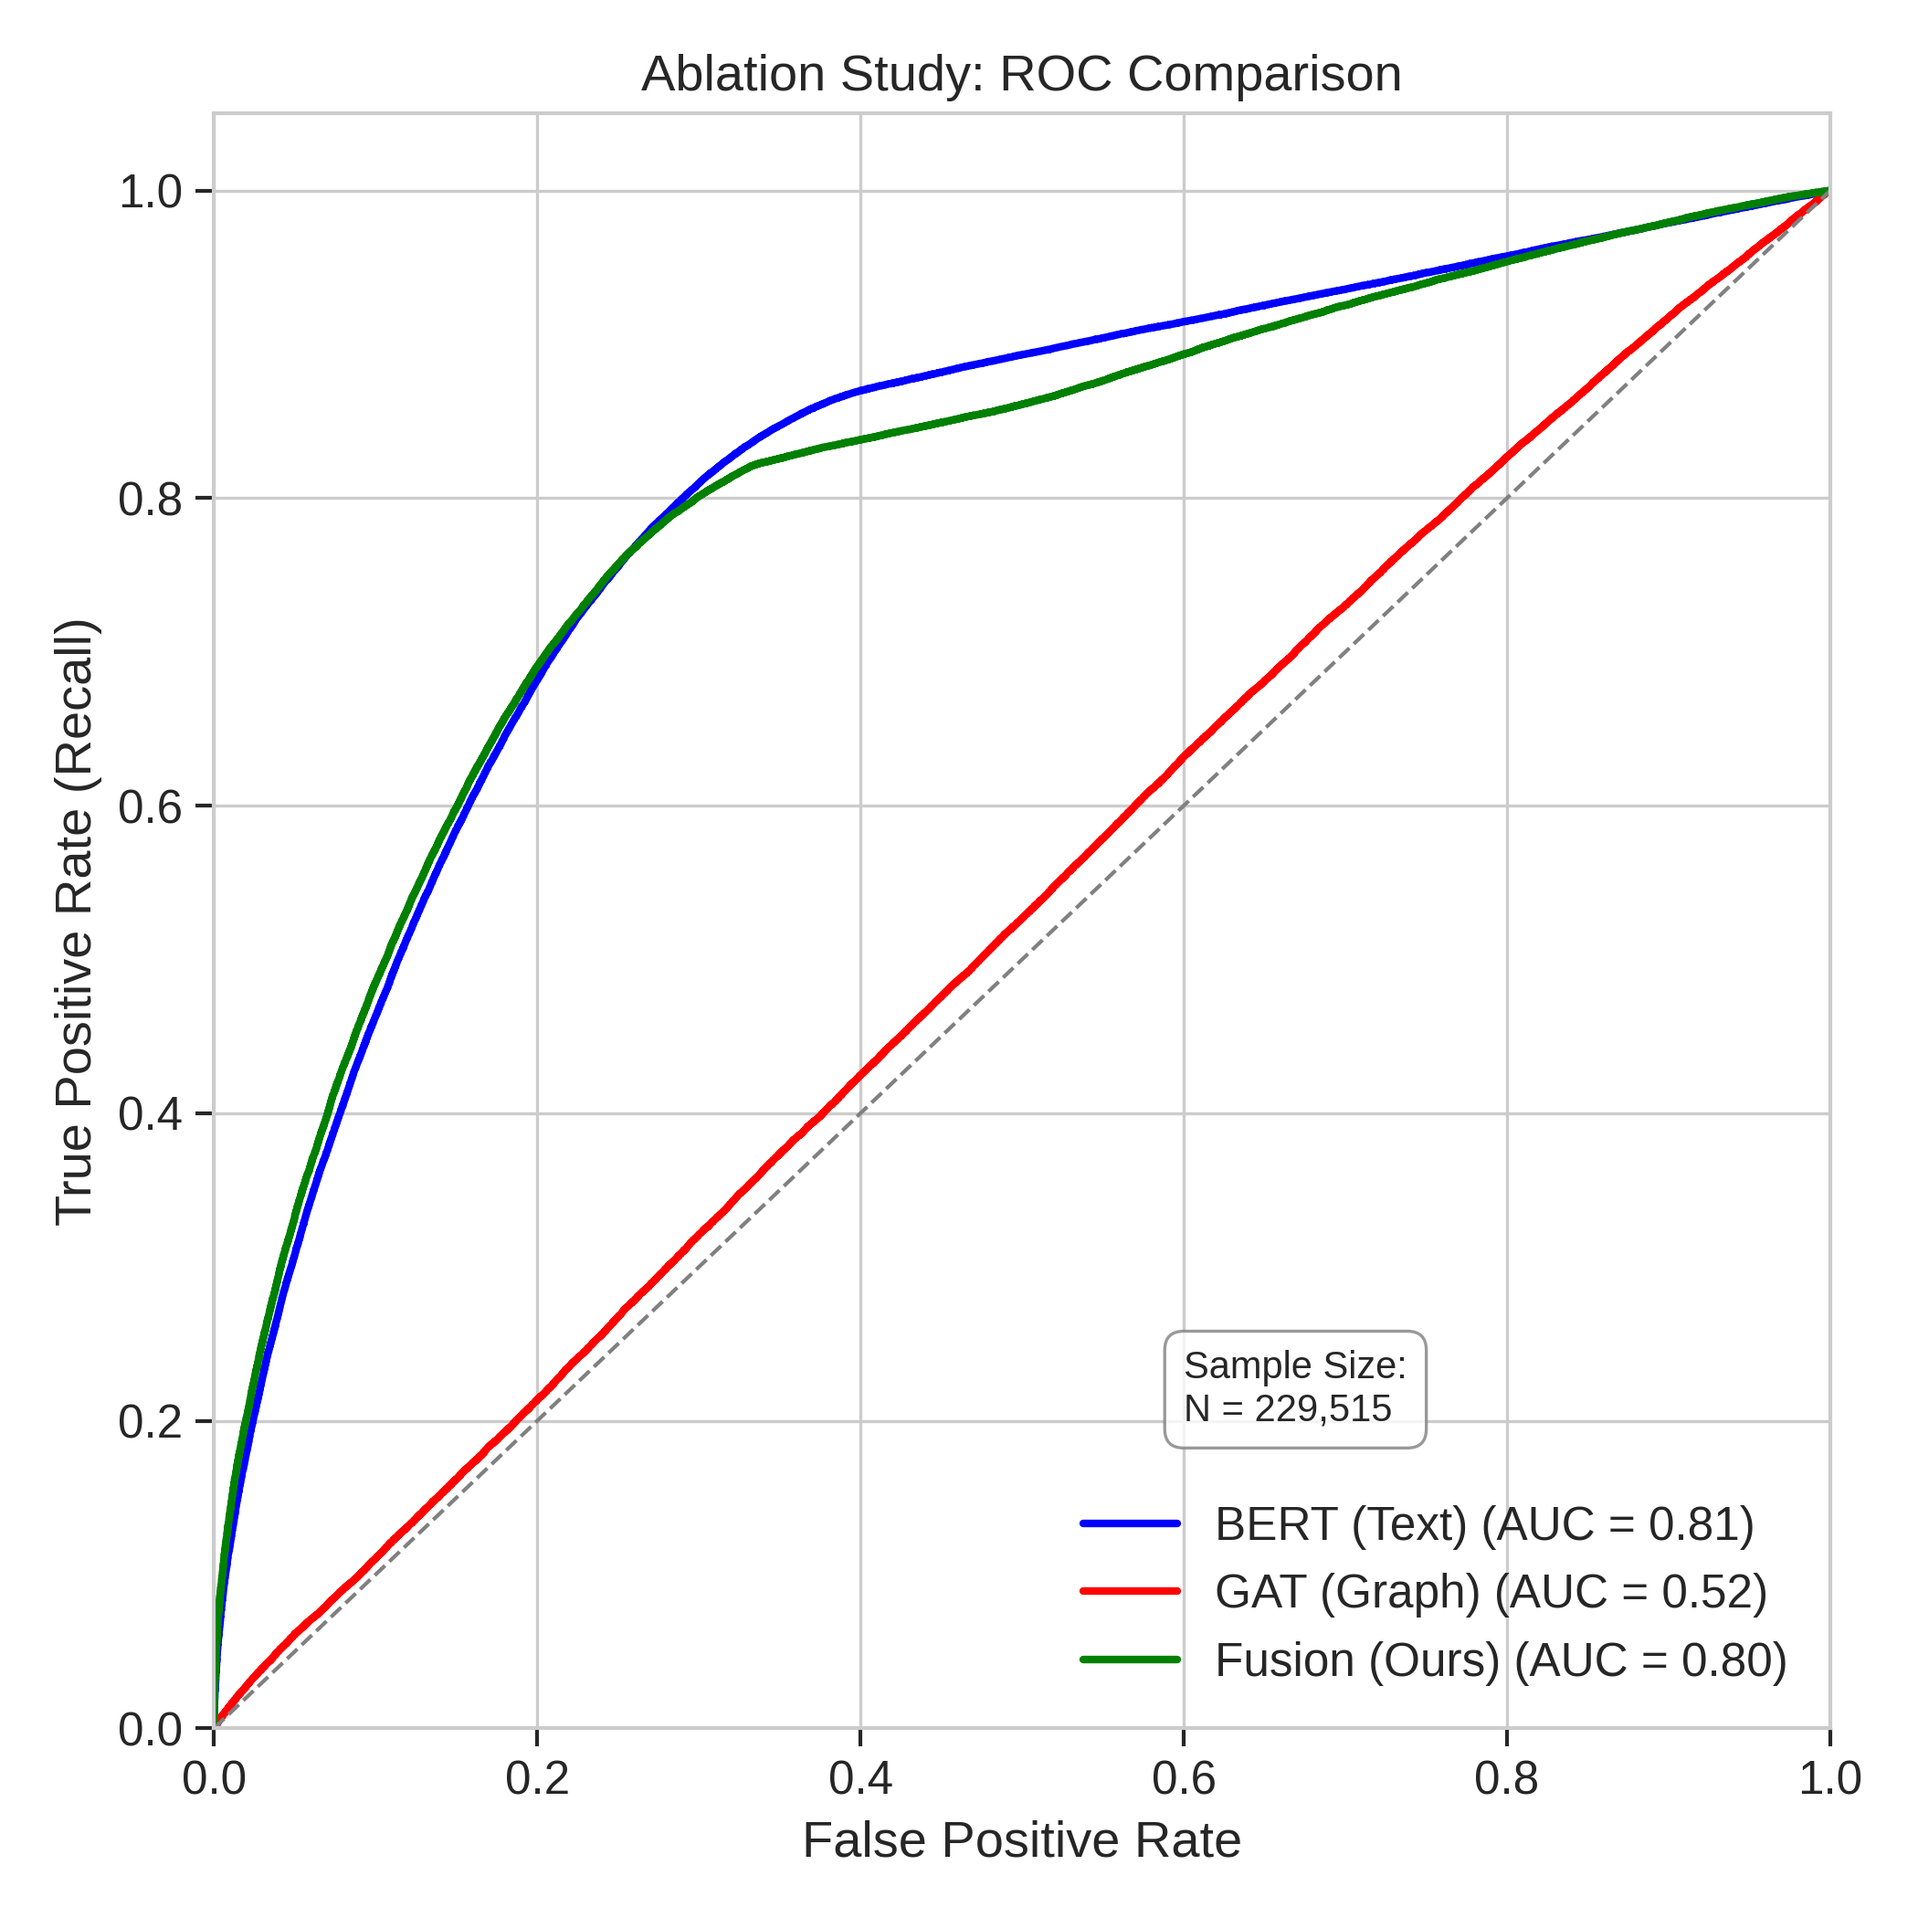
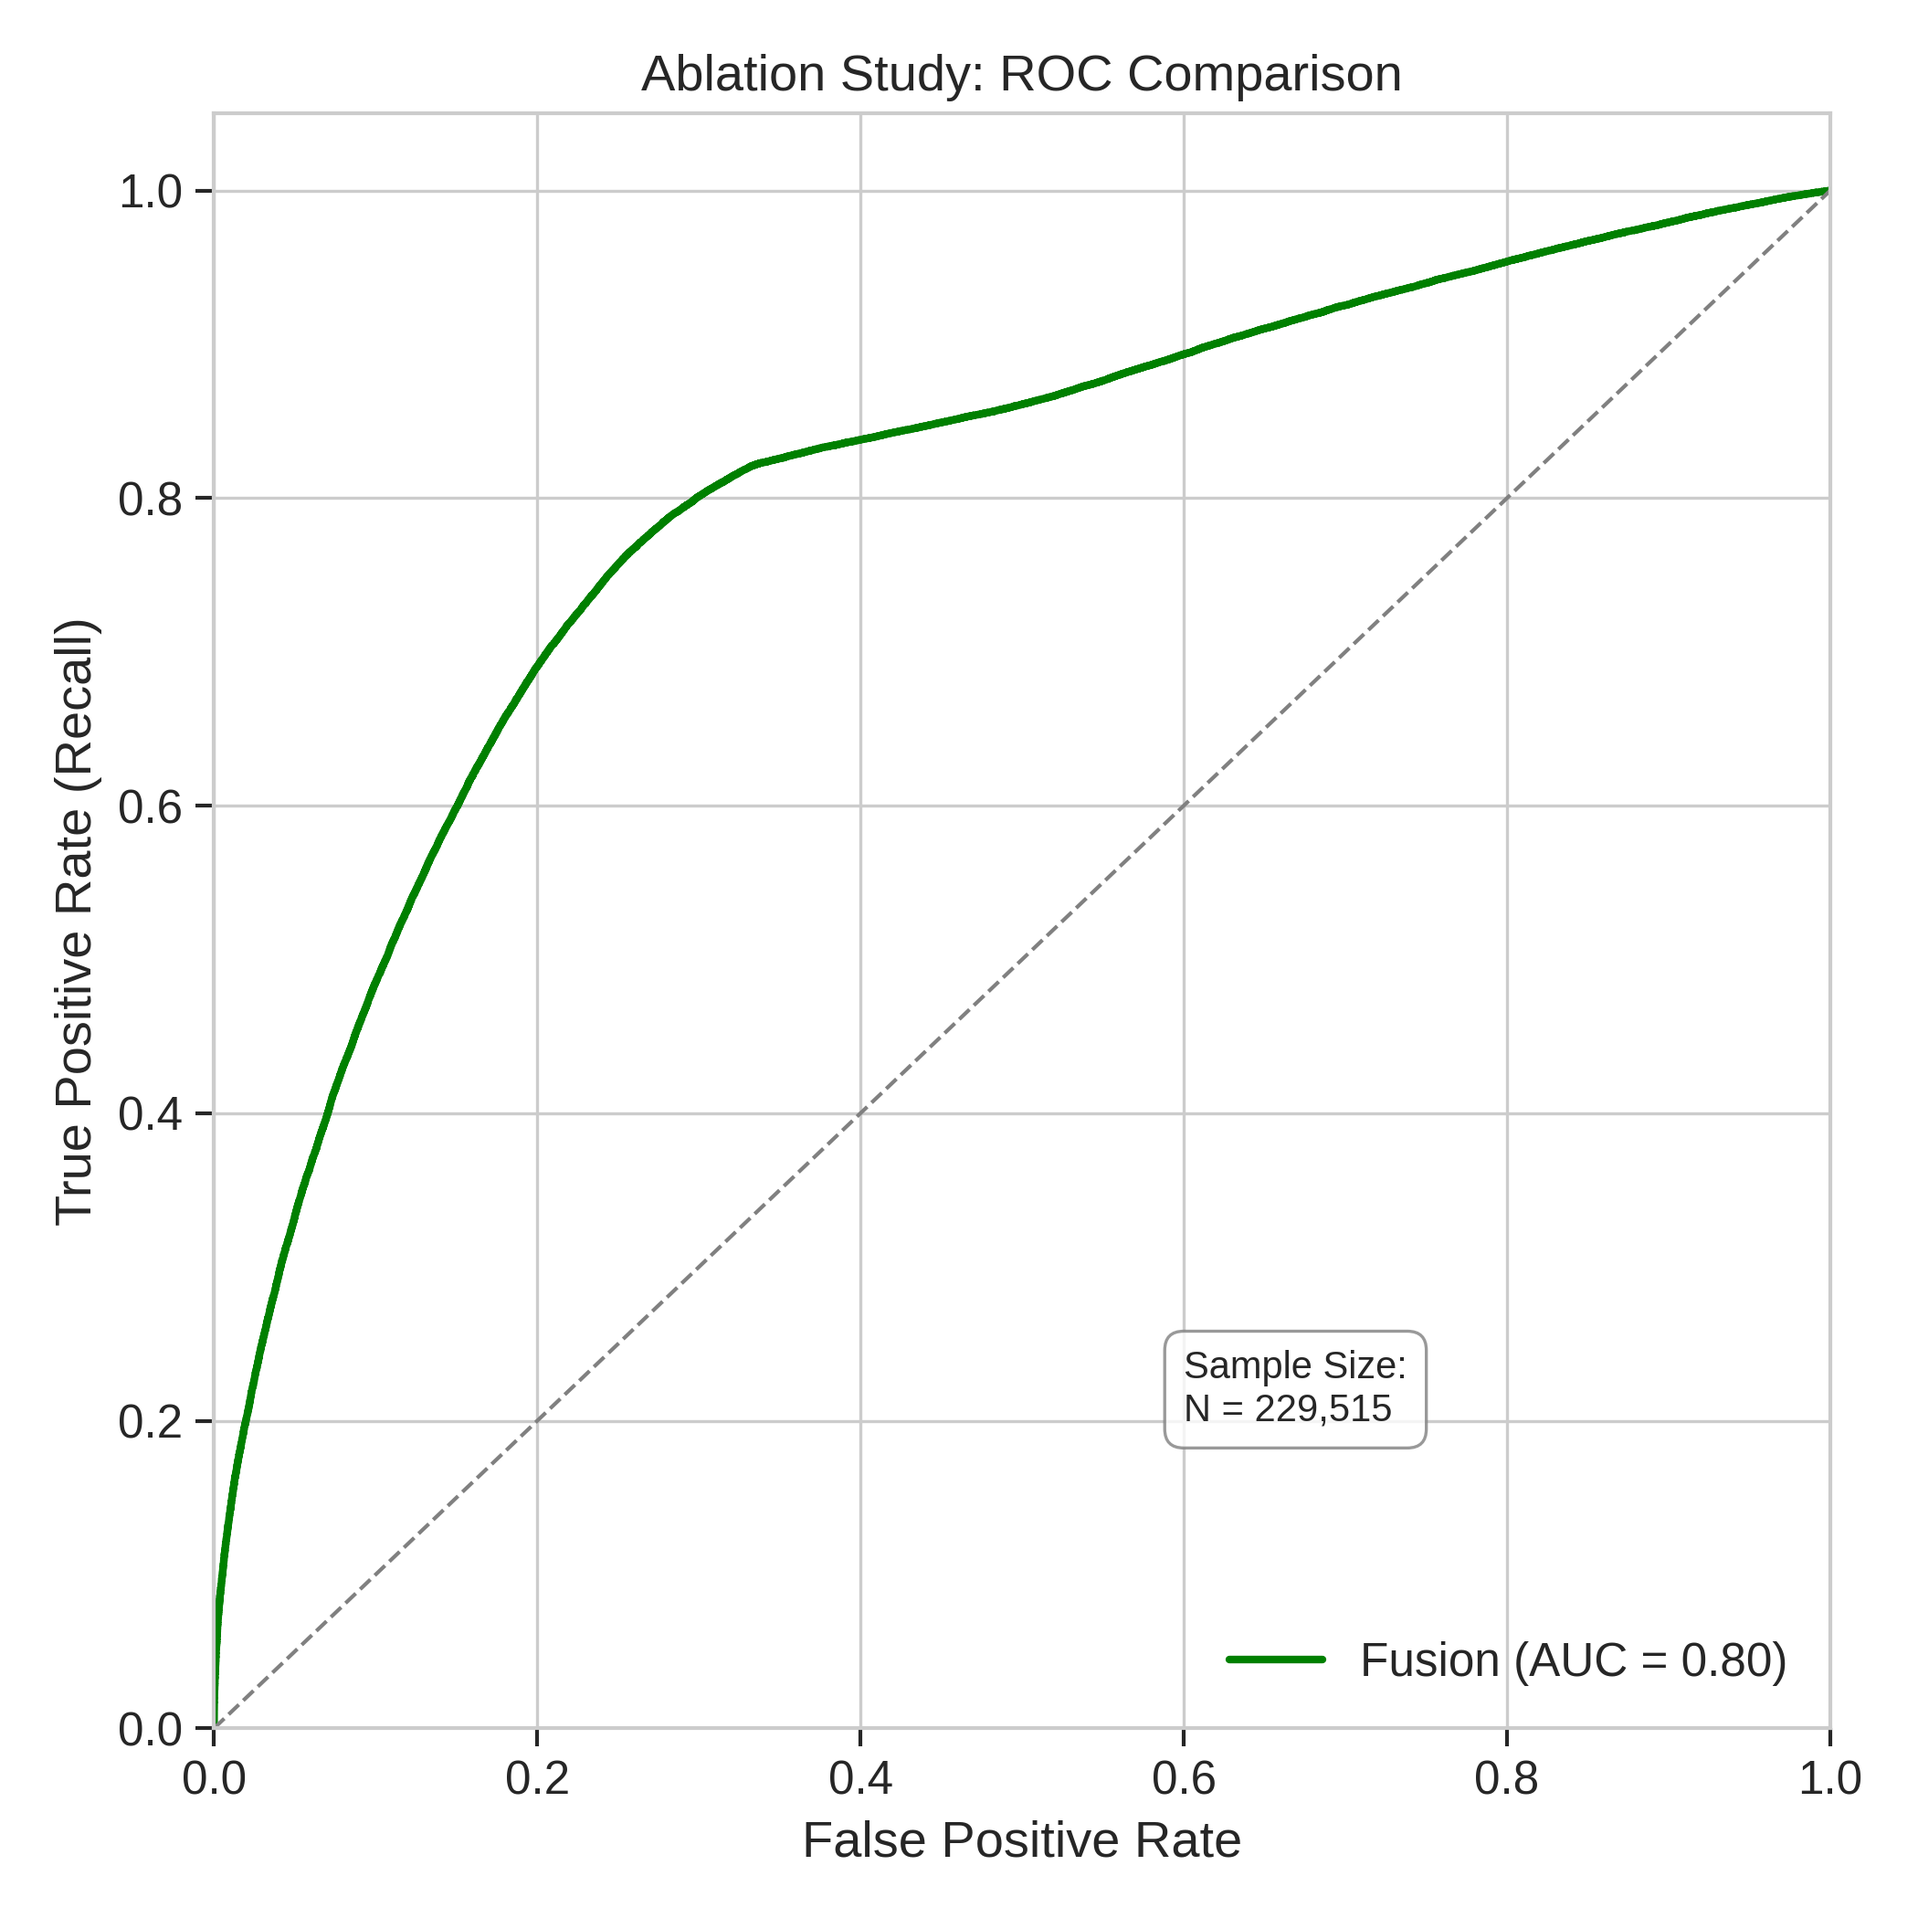
roc_curve

diff --git a/generate_figures.py b/generate_figures.py
@@ -67,9 +67,9 @@ def plot_scalability():
 
 def plot_comparative_roc():
     """Plots ROC curves for BERT, GAT, and Fusion on the same chart."""
-    modes = ['bert', 'gat', 'fusion']
+    modes = ['fusion']
     colors = {'bert': 'blue', 'gat': 'red', 'fusion': 'green'}
-    labels = {'bert': 'BERT (Text)', 'gat': 'GAT (Graph)', 'fusion': 'Fusion (Ours)'}
+    labels = {'bert': 'BERT (Text)', 'gat': 'GAT (Graph)', 'fusion': 'Fusion'}
     
     plt.figure(figsize=(7, 7))
     found_any = False
